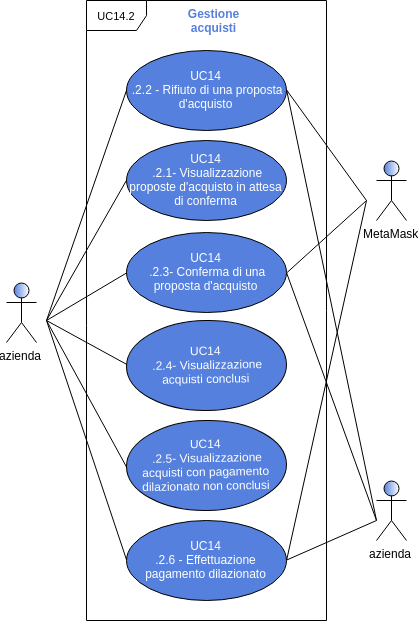
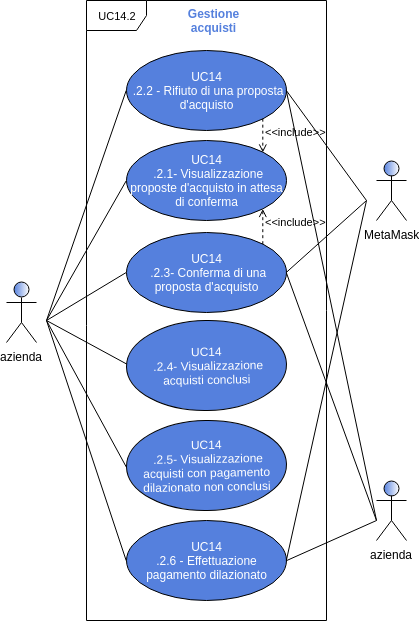
stesi sottocasi fino a UC14.2.4

diff --git a/RR/Esterni/Analisi_dei_requisiti/res/sections/UC/UC14CompravenditaAzienda.tex b/RR/Esterni/Analisi_dei_requisiti/res/sections/UC/UC14CompravenditaAzienda.tex
@@ -91,7 +91,54 @@
 	\item \textbf{Precondizione}: il sistema ha riconosciuto l'utente autenticato come azienda, e mette a disposizione tutte le pagine necessarie alla visualizzazione e gestione delle vendite;
 	\item \textbf{Postcondizione}: l'azienda ha visualizzato e/o gestitole proprie vendite.
 \end{itemize} 
-
+\subsubsection{UC14.2.1 - Visualizzazione proposte d'acquisto in attesa di conferma}
+\begin{itemize}
+	\item \textbf{Attori Primari}: azienda;
+	\item \textbf{Descrizione}: l'azienda può visualizzare delle proposte d'acquisto che necessitano di conferma;
+	\item \textbf{Scenario principale}: l'utente visualizza la lista delle proposte d'acquisto che necessitano di conferma. Per ognuna di esse ha a possibilità di confermare la proposta [UC14.2.3] o di rifiutarla [UC14.2.2];
+	\item \textbf{Precondizione}: il sistema ha riconosciuto l'utente autenticato come azienda, e questo ha espresso la volontà di visualizzare la lista delle proposte d'acquisto che necessitano di conferma;
+	\item \textbf{Postcondizione}: l'azienda visualizza tale lista.
+\end{itemize}
+\subsubsection{UC14.2.2 - Rifiuto di una proposta di acquisto}
+\begin{itemize}
+	\item \textbf{Attori Primari}: azienda;
+	\item \textbf{Descrizione}: l'azienda può rifiutare una proposta d'acquisto. Per confermare l'operazione verrà utilizzato MetaMask\glo;
+	\item \textbf{Scenario principale}: l'utente visualizza una proposta d'acquisto che necessitano di conferma e decide di rifiutarla;
+	\item \textbf{Precondizione}: il sistema ha riconosciuto l'utente autenticato come azienda, ed ha mostrato la lista delle proposte d'acquisto che necessitano di conferma;
+	\item \textbf{Postcondizione}: l'azienda ha rifiutato la proposta d'acquisto. La proposta non sarà più presente nella lista di attesa per la conferma. L'acquisto comparirà come acquisto concluso, con esito negativo, nella lista delle vendite dell'azienda-venditrice [UC14.1.5]. Il sistema ritorna l'ammontare trattenuto per l'ordine all'azienda-cliente.
+\end{itemize}
+\subsubsection{UC14.2.3 - Conferma di una proposta di acquisto}
+\begin{itemize}
+	\item \textbf{Attori Primari}: azienda;
+	\item \textbf{Descrizione}: l'azienda può confermare una proposta d'acquisto. . Per confermare l'operazione verrà utilizzato MetaMask\glo;
+	\item \textbf{Scenario principale}: l'utente visualizza una proposta d'acquisto che necessitano di conferma e decide di confermarla;
+	\item \textbf{Precondizione}: il sistema ha riconosciuto l'utente autenticato come azienda, ed ha mostrato la lista delle proposte d'acquisto che necessitano di conferma;
+	\item \textbf{Postcondizione}: l'azienda ha confermato la proposta d'acquisto. La proposta non sarà più presente nella lista di attesa per la conferma, comparirà invece sulla lista degli acquisti conclusi [UC14.2.4]. L'acquisto comparirà come acquisto concluso, con esito positivo, nella lista delle vendite dell'azienda-venditrice [UC14.1.5]. Il sistema trasferisce l'ammontare trattenuto per l'ordine all'azienda-venditrice. L'azienda-cliente riceve nella pagina dedicata la fattura IVA relativa a questo ordine.
+\end{itemize}
+\subsubsection{UC14.2.4 - Visualizzazione acquisti conclusi}
+\begin{itemize}
+	\item \textbf{Attori Primari}: azienda;
+	\item \textbf{Descrizione}: l'azienda può visualizzare la lista degli acquisti conclusi;
+	\item \textbf{Scenario principale}: l'utente visualizza la lista degli acquisti conclusi;
+	\item \textbf{Precondizione}: il sistema ha riconosciuto l'utente autenticato come azienda, e questo ha espresso la volontà di visualizzare la lista degli acquisti conclusi;
+	\item \textbf{Postcondizione}: l'azienda visualizza tale lista.
+\end{itemize}
+\subsubsection{UC14.2.5 - Visualizzazione vendite concluse}
+\begin{itemize}
+	\item \textbf{Attori Primari}: azienda;
+	\item \textbf{Descrizione}: l'azienda può visualizzare la lista delle vendite concluse;
+	\item \textbf{Scenario principale}: l'utente visualizza la lista delle vendite concluse, con specificato l'avvenuto successo o meno (rifiuto della proposta d'ordine da parte dell'azienda cliente);
+	\item \textbf{Precondizione}: il sistema ha riconosciuto l'utente autenticato come azienda, e questo ha espresso la volontà di visualizzare la lista delle vendite concluse;
+	\item \textbf{Postcondizione}: l'azienda visualizza tale lista.
+\end{itemize}
+\subsubsection{UC14.2.6 - Visualizzazione vendite concluse}
+\begin{itemize}
+	\item \textbf{Attori Primari}: azienda;
+	\item \textbf{Descrizione}: l'azienda può visualizzare la lista delle vendite concluse;
+	\item \textbf{Scenario principale}: l'utente visualizza la lista delle vendite concluse, con specificato l'avvenuto successo o meno (rifiuto della proposta d'ordine da parte dell'azienda cliente);
+	\item \textbf{Precondizione}: il sistema ha riconosciuto l'utente autenticato come azienda, e questo ha espresso la volontà di visualizzare la lista delle vendite concluse;
+	\item \textbf{Postcondizione}: l'azienda visualizza tale lista.
+\end{itemize}
 
 
 \subsubsection{UC14.3 - Gestione Fatture}
